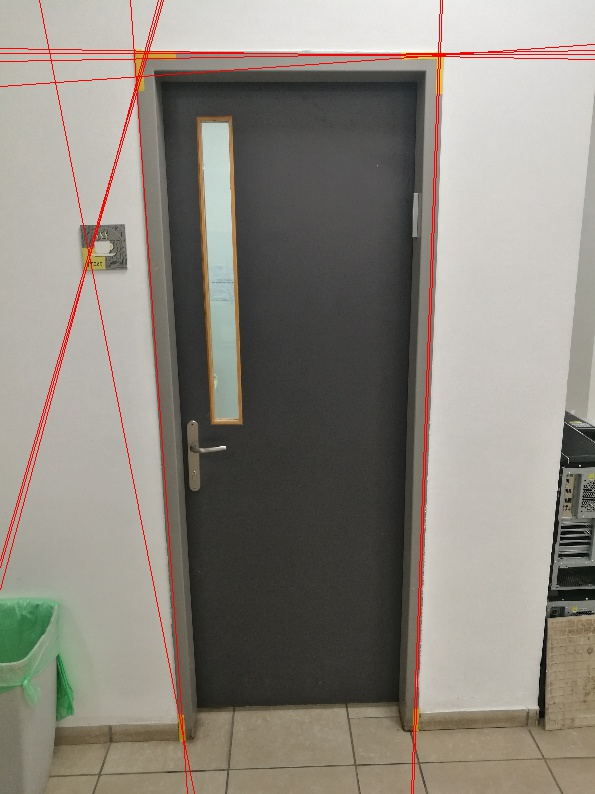
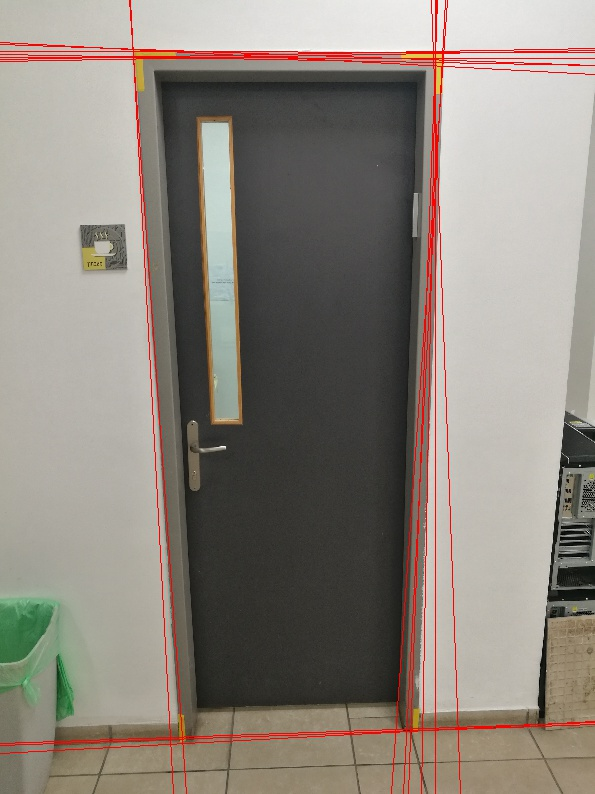
more changes

diff --git a/project_improvements/doors_detection/main.py b/project_improvements/doors_detection/main.py
@@ -8,6 +8,7 @@ import os
 from sklearn import linear_model, datasets
 
 
+
 cur_cwd = os.getcwd()
 os.chdir(os.path.abspath(os.path.join(cur_cwd, 'project_improvements', 'doors_detection')))
 
@@ -75,7 +76,7 @@ plt.savefig('RANSAC_example.png')
 # Using the Hough transform algorithm to find the lines
 
 # first demonstrate on original image
-original_img = img_cv
+original_img = img_cv = cv2.resize(cv2.imread('door_raw.jpg'), None, fx=0.2, fy=0.2)
 gray = cv2.cvtColor(original_img,cv2.COLOR_BGR2GRAY)
 edges = cv2.Canny(gray,50,150,apertureSize = 3)
 
@@ -101,15 +102,16 @@ cv2.imwrite('Houghlines_on_original_image.jpg', original_img)
 
 # now use on the image with the mask
 mask_img_2 = mask_img
-original_img = img_cv
-cv2.imshow('Mask image', mask_img_2)
+edges_mask = cv2.Canny(mask_img_2,50,150,apertureSize = 3)
+original_img = img_cv = cv2.resize(cv2.imread('door_raw.jpg'), None, fx=0.2, fy=0.2)
+# cv2.imshow('Mask image', mask_img_2)
 
 mask_img_2_colored = np.expand_dims(mask_img_2, 0)
 mask_img_2_colored = np.concatenate((mask_img_2_colored, mask_img_2_colored, mask_img_2_colored), 0)
 mask_img_2_colored = np.moveaxis(mask_img_2_colored, 0, -1)
 
 
-lines_2 = cv2.HoughLines(mask_img_2, rho=1, theta=np.pi/180, threshold=50)
+lines_2 = cv2.HoughLines(edges_mask, rho=1, theta=np.pi/180, threshold=30)
 for line_num in range(lines_2.shape[0]):
     rho = lines_2[line_num][0][0]
     theta = lines_2[line_num][0][1]
@@ -129,10 +131,9 @@ cv2.imwrite('Houghlines_on_masked_image.jpg', original_img)
 
 
 # Unite both of the masks together to see if we get improvement
-new_mask = cv2.bitwise_and(edges, edges, mask = mask_img_2)
+#   new_mask = cv2.bitwise_and(edges, edges, mask = mask_img_2)
 
-# Trying to expand the mask with the stickers to see if we get better results
-cv2.imshow('The united mask', new_mask)
+
 
 
 

diff --git a/project_improvements/improvements.md b/project_improvements/improvements.md
@@ -72,9 +72,11 @@ By taking the raw image, transforming into grayscale, using the Canny Edge Detec
 
 By taking the Mask image, and applying the Hough transform on it, we obtain the Image on the right.
 
- <img src="./imgs/Houghlines_on_original_image.jpg" width="300"/>
+<img src="./imgs/Houghlines_on_original_image.jpg" width="300"/>
 
-  <img src="./imgs/Houghlines_on_masked_image.jpg" width="300"/>
+<img src="./imgs/Houghlines_on_masked_image.jpg" width="300"/>
 
+As we can see, the Hough lines found from the original image are more consistent, and more correct. But they also include the 
 
+A further idea is to filter the lines found from the 
 
